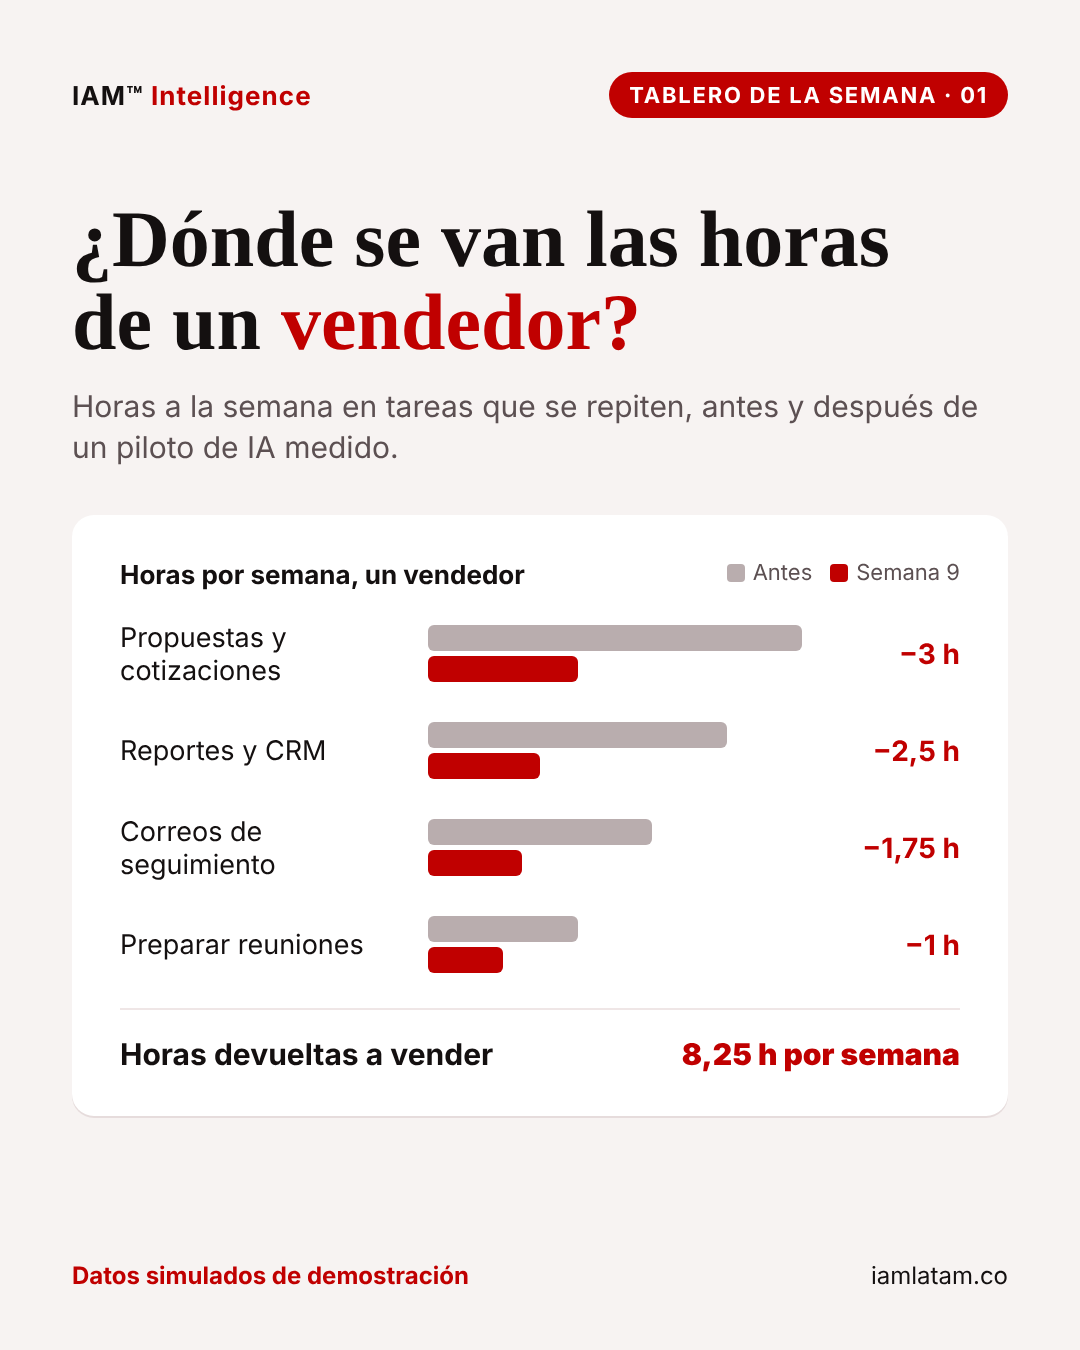
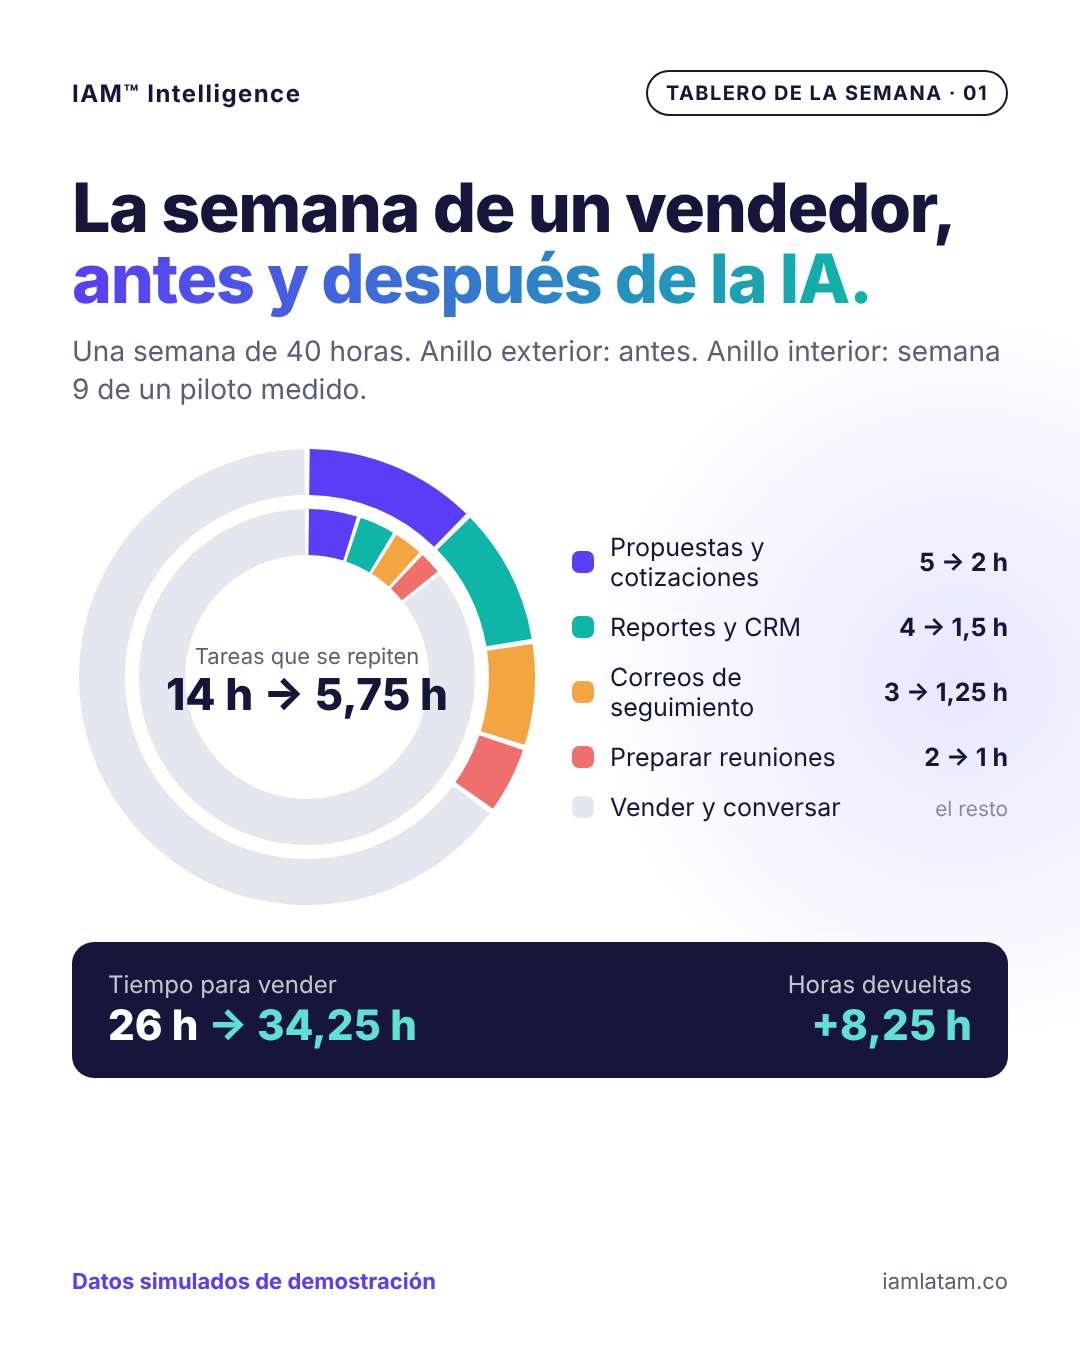
Pagina IAM: tablero 01 rediseñado en blanco con anillos
Claude-Session: https://claude.ai/code/session_01Tmne2aLNP1UGqMwJXFqoP3

diff --git a/contenido-linkedin/pagina-iam/2026-11-24/tablero-semana-01.html b/contenido-linkedin/pagina-iam/2026-11-24/tablero-semana-01.html
@@ -1,35 +1,43 @@
 <!doctype html><html><head><meta charset="utf-8"><style>
 *{box-sizing:border-box;margin:0}
-body{width:1080px;height:1350px;background:#f7f3f2;font-family:'Helvetica Neue',Arial,sans-serif;color:#141010;padding:72px 72px 60px;display:flex;flex-direction:column}
-.top{display:flex;justify-content:space-between;align-items:center;font-size:26px;font-weight:700;letter-spacing:.04em}
-.tag{background:#c00000;color:#fff;padding:10px 20px;border-radius:40px;font-size:22px;letter-spacing:.08em}
-h1{font-family:Georgia,serif;font-size:80px;line-height:1.04;margin-top:80px}
-h1 span{color:#c00000}
-.sub{font-size:30px;color:#5c5052;margin-top:22px;line-height:1.35}
-.card{background:#fff;border-radius:22px;padding:44px 48px;margin-top:48px;box-shadow:0 2px 0 #e6dcdc}
-.ct{font-size:26px;font-weight:700;margin-bottom:28px;display:flex;justify-content:space-between}
-.leg{font-size:22px;color:#5c5052;font-weight:400}
-.leg i{display:inline-block;width:18px;height:18px;border-radius:4px;vertical-align:-2px;margin:0 8px 0 18px}
-.row{display:grid;grid-template-columns:290px 1fr 140px;align-items:center;gap:18px;margin:30px 0}
-.lab{font-size:27px}
-.bars div{height:26px;border-radius:6px;margin:5px 0}
-.a{background:#b9adae}.b{background:#c00000}
-.num{white-space:nowrap;font-size:28px;text-align:right;font-weight:700;color:#c00000}
-.tot{margin-top:30px;padding-top:26px;border-top:2px solid #efe6e6;display:flex;justify-content:space-between;font-size:30px;font-weight:700}
-.tot b{color:#c00000}
-.foot{margin-top:auto;display:flex;justify-content:space-between;font-size:24px}
-.foot .s{color:#c00000;font-weight:700}
-</style></head><body>
-<div class="top"><div>IAM™ <span style="color:#c00000">Intelligence</span></div><div class="tag">TABLERO DE LA SEMANA · 01</div></div>
-<h1>¿Dónde se van las horas<br>de un <span>vendedor?</span></h1>
-<p class="sub">Horas a la semana en tareas que se repiten, antes y después de un piloto de IA medido.</p>
-<div class="card">
- <div class="ct">Horas por semana, un vendedor<span class="leg"><i class="a"></i>Antes<i class="b"></i>Semana 9</span></div>
- <div class="row"><div class="lab">Propuestas y cotizaciones</div><div class="bars"><div class="a" style="width:100%"></div><div class="b" style="width:40%"></div></div><div class="num">−3 h</div></div>
- <div class="row"><div class="lab">Reportes y CRM</div><div class="bars"><div class="a" style="width:80%"></div><div class="b" style="width:30%"></div></div><div class="num">−2,5 h</div></div>
- <div class="row"><div class="lab">Correos de seguimiento</div><div class="bars"><div class="a" style="width:60%"></div><div class="b" style="width:25%"></div></div><div class="num">−1,75 h</div></div>
- <div class="row"><div class="lab">Preparar reuniones</div><div class="bars"><div class="a" style="width:40%"></div><div class="b" style="width:20%"></div></div><div class="num">−1 h</div></div>
- <div class="tot"><span>Horas devueltas a vender</span><b>8,25 h por semana</b></div>
+body{width:1080px;height:1350px;background:#fff;font-family:'Helvetica Neue',Arial,sans-serif;color:#16163a;padding:70px 72px 56px;display:flex;flex-direction:column;position:relative;overflow:hidden}
+.glow{position:absolute;width:760px;height:760px;border-radius:50%;background:radial-gradient(circle,#e9e6ff 0%,#fff 70%);right:-260px;top:300px;z-index:0}
+.z{position:relative;z-index:1}
+.top{display:flex;justify-content:space-between;align-items:center;font-size:24px;font-weight:700;letter-spacing:.06em}
+.tag{border:2px solid #16163a;padding:9px 18px;border-radius:40px;font-size:20px}
+h1{font-size:68px;line-height:1.05;margin-top:56px;font-weight:800;letter-spacing:-.02em}
+h1 span{background:linear-gradient(90deg,#5b3df5,#0fb5a6);-webkit-background-clip:text;color:transparent}
+.sub{font-size:28px;color:#5d5d7a;margin-top:18px;line-height:1.35}
+.main{display:flex;align-items:center;gap:30px;margin-top:34px}
+.leg{flex:1}
+.it{display:flex;align-items:center;gap:16px;margin:20px 0;font-size:25px}
+.dot{width:22px;height:22px;border-radius:7px;flex:none}
+.it b{margin-left:auto;font-size:25px;white-space:nowrap}
+.it small{color:#8a8aa3;font-weight:400}
+.foot{margin-top:auto;display:flex;justify-content:space-between;font-size:22px;color:#5d5d7a}
+.foot .s{color:#5b3df5;font-weight:700}
+.rings{font-size:22px;color:#5d5d7a;display:flex;gap:28px;margin-top:6px}
+.strip{margin-top:30px;background:#16163a;color:#fff;border-radius:22px;padding:28px 36px;display:flex;justify-content:space-between;align-items:center}
+.strip .k{font-size:24px;opacity:.75}.strip .v{font-size:42px;font-weight:800}
+.strip .v span{color:#5fe0d2}
+</style></head><body><div class="glow"></div>
+<div class="z top"><div>IAM™ Intelligence</div><div class="tag">TABLERO DE LA SEMANA · 01</div></div>
+<h1 class="z">La semana de un vendedor,<br><span>antes y después de la IA.</span></h1>
+<p class="z sub">Una semana de 40 horas. Anillo exterior: antes. Anillo interior: semana 9 de un piloto medido.</p>
+<div class="z main">
+ <svg id="c" width="470" height="470" viewBox="0 0 470 470"></svg>
+ <div class="leg" id="leg"></div>
 </div>
-<div class="foot"><div class="s">Datos simulados de demostración</div><div>iamlatam.co</div></div>
-</body></html>
+<div class="z strip"><div><div class="k">Tiempo para vender</div><div class="v">26 h <span>→ 34,25 h</span></div></div><div style="text-align:right"><div class="k">Horas devueltas</div><div class="v"><span>+8,25 h</span></div></div></div>
+<div class="z foot"><div class="s">Datos simulados de demostración</div><div>iamlatam.co</div></div>
+<script>
+const T=[["Propuestas y cotizaciones","#5b3df5",5,2],["Reportes y CRM","#0fb5a6",4,1.5],["Correos de seguimiento","#f2a541",3,1.25],["Preparar reuniones","#ef6f6c",2,1]];
+const sell=["Vender y conversar","#e6e6f0"];
+const svg=document.getElementById('c'),C=235;
+function arc(r,a0,a1,w,col){const p=(a)=>[C+r*Math.cos(a-Math.PI/2),C+r*Math.sin(a-Math.PI/2)];const [x0,y0]=p(a0),[x1,y1]=p(a1);const l=(a1-a0)>Math.PI?1:0;const e=document.createElementNS('http://www.w3.org/2000/svg','path');e.setAttribute('d',`M${x0} ${y0} A${r} ${r} 0 ${l} 1 ${x1} ${y1}`);e.setAttribute('stroke',col);e.setAttribute('stroke-width',w);e.setAttribute('fill','none');e.setAttribute('stroke-linecap','butt');svg.appendChild(e)}
+function ring(r,w,idx){let a=0;const g=0.012;let used=0;T.forEach(t=>{const s=t[idx]/40*2*Math.PI;arc(r,a+g,a+s-g,w,t[1]);a+=s;used+=t[idx]});arc(r,a+g,2*Math.PI-g,w,sell[1]);}
+ring(205,46,2);ring(145,46,3);
+const tx=(y,s,t,c,wt)=>{const e=document.createElementNS('http://www.w3.org/2000/svg','text');e.setAttribute('x',C);e.setAttribute('y',y);e.setAttribute('text-anchor','middle');e.setAttribute('font-size',s);e.setAttribute('fill',c);e.setAttribute('font-weight',wt);e.setAttribute('font-family','Helvetica Neue, Arial');e.textContent=t;svg.appendChild(e)};
+tx(222,22,'Tareas que se repiten','#5d5d7a',400);tx(268,44,'14 h → 5,75 h','#16163a',800);
+document.getElementById('leg').innerHTML=T.map(t=>`<div class="it"><div class="dot" style="background:${t[1]}"></div>${t[0]}<b>${String(t[2]).replace('.',',')} → ${String(t[3]).replace('.',',')} h</b></div>`).join('')+`<div class="it"><div class="dot" style="background:${sell[1]}"></div>${sell[0]}<b><small>el resto</small></b></div>`;
+</script></body></html>

diff --git a/contenido-linkedin/pagina-iam/2026-11-24/post.md b/contenido-linkedin/pagina-iam/2026-11-24/post.md
@@ -1,6 +1,6 @@
 # Página IAM™ · Tablero de la semana 01 · mar 24 nov 2026, 11:30 a. m.
 Estado: propuesta, espera aprobación de Sandra.
-Imagen: tablero-semana-01.png (datos simulados de demostración).
+Imagen: tablero-semana-01.png, fondo blanco con anillos (datos simulados de demostración). Rediseño pedido por Sandra el 23 nov: nada de negro y rojo.
 
 Tablero de la semana · 01
 
@@ -11,7 +11,7 @@ En un piloto de IA bien medido no empezamos por la herramienta. Empezamos por co
 Semana 1: cuánto tarda hoy cada tarea que se repite.
 Semana 9: cuánto tarda con IA, con la persona revisando.
 
-En este ejemplo, un vendedor recupera 8,25 horas por semana. Son horas que vuelven a lo único que la IA no hace por él: conversar con clientes.
+En este ejemplo, las tareas que se repiten bajan de 14 a 5,75 horas por semana. El tiempo para vender sube de 26 a 34,25 horas: lo único que la IA no hace por el vendedor es conversar con sus clientes.
 
 ⭕ Los datos del tablero son simulados. El método es el mismo que usamos con los equipos que acompañamos.
 
